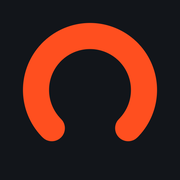
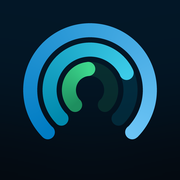
Icono de la app: anillos concéntricos con la gama azul/cian/verde del rediseño
Sustituye el arco ember sobre asphalt. Tres arcos de progreso (acento, Body Battery, VFC)
sobre --bg oscuro; manifest con el mismo color de fondo/tema. Contenido dentro de la zona
segura de iconos maskable.

diff --git a/app/manifest.ts b/app/manifest.ts
@@ -7,8 +7,8 @@ export default function manifest(): MetadataRoute.Manifest {
     description: "Entrenador personal de ciclismo",
     start_url: "/",
     display: "standalone",
-    background_color: "#12151a",
-    theme_color: "#12151a",
+    background_color: "#05080d",
+    theme_color: "#05080d",
     icons: [
       { src: "/icons/icon-192.png", sizes: "192x192", type: "image/png" },
       { src: "/icons/icon-512.png", sizes: "512x512", type: "image/png" },
